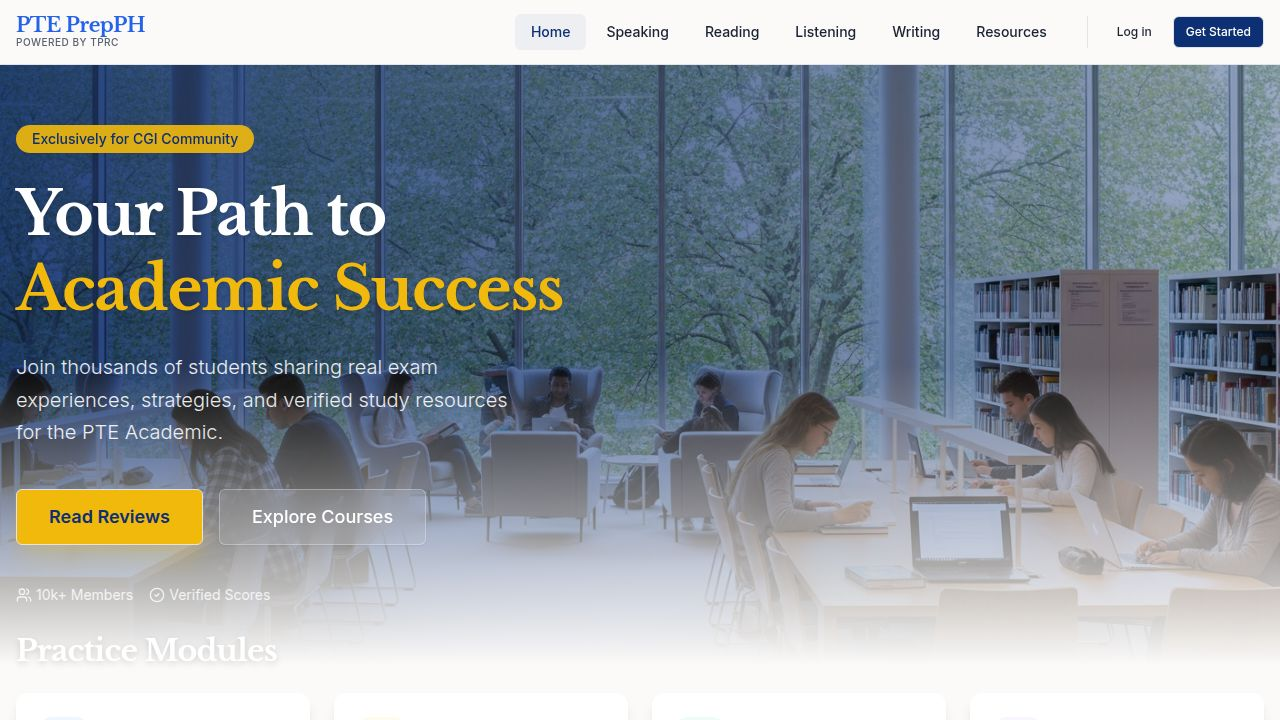
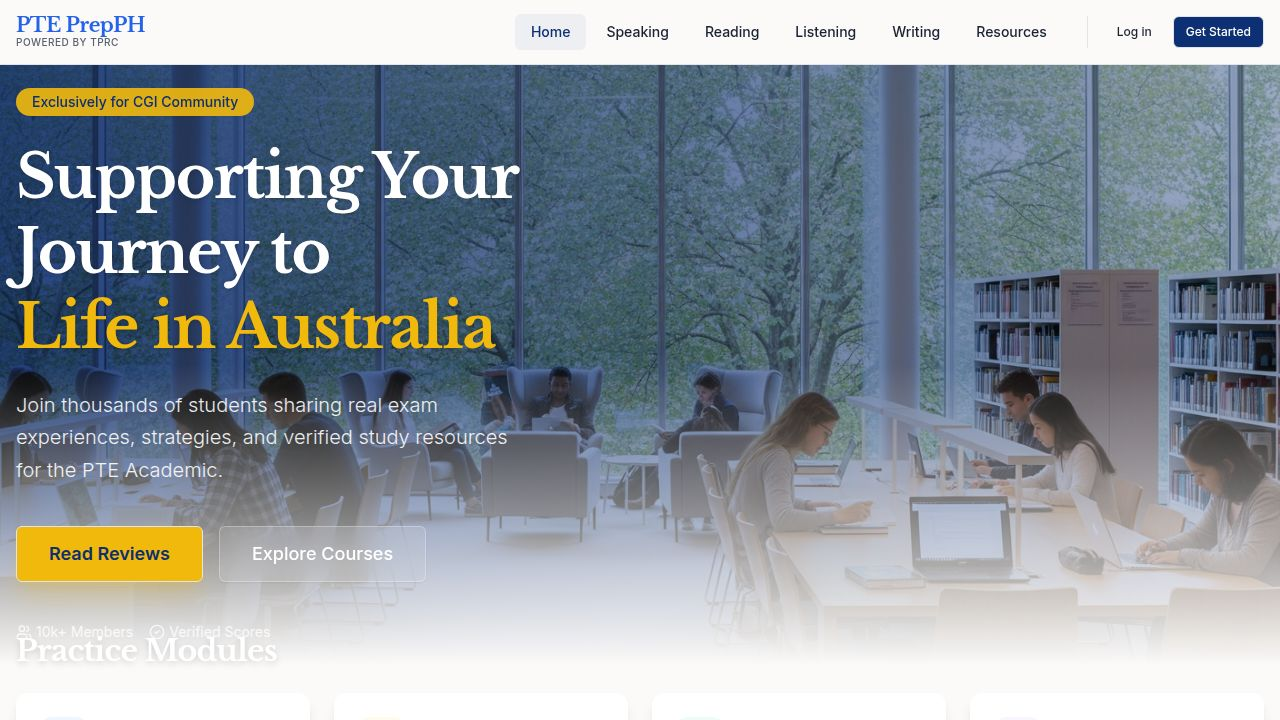
Update home page title to reflect program focus
Modify the main heading on the home page from "Your Path to English Competency" to "Supporting Your Journey to Life in Australia", updating the og:image metadata.

Replit-Commit-Author: Agent
Replit-Commit-Session-Id: d1e03227-865d-49bb-8f7a-67d356121093
Replit-Commit-Checkpoint-Type: full_checkpoint
Replit-Commit-Event-Id: f5ca7914-eb92-4072-9494-caa7c1d7dc13
Replit-Commit-Screenshot-Url: https://storage.googleapis.com/screenshot-production-us-central1/b4d83f65-91cd-4778-9c7d-251da269ece9/d1e03227-865d-49bb-8f7a-67d356121093/eREJO0l
Replit-Helium-Checkpoint-Created: true

Changed region(s): [[0.0, 0.1222, 0.4375, 0.5194], [0.0, 0.55, 0.4062, 0.8556], [0.1875, 0.7639, 0.3125, 0.7944]]

diff --git a/client/src/pages/home.tsx b/client/src/pages/home.tsx
@@ -26,8 +26,8 @@ export default function Home() {
           <div className="max-w-2xl space-y-6 animate-in slide-in-from-bottom-10 duration-700 fade-in">
             <Badge className="bg-secondary/90 text-secondary-foreground hover:bg-secondary border-none px-4 py-1 text-sm font-medium rounded-full backdrop-blur-sm">Exclusively for CGI Community</Badge>
             <h1 className="text-5xl md:text-6xl font-serif font-bold text-white leading-tight tracking-tight drop-shadow-sm">
-              Your Path to <br/>
-              <span className="text-secondary">English Competency</span>
+              Supporting Your Journey to <br/>
+              <span className="text-secondary">Life in Australia</span>
             </h1>
             <p className="text-xl text-white/90 max-w-lg leading-relaxed font-light">Join thousands of students sharing real exam experiences, strategies, and verified study resources for the PTE Academic.</p>
             <div className="flex flex-col sm:flex-row gap-4 pt-4">
